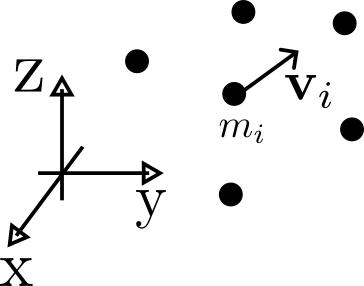
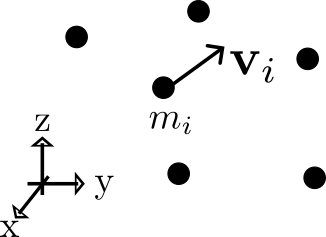
improve codes and links

diff --git a/papers/riku_sakamoto/main.md b/papers/riku_sakamoto/main.md
@@ -139,14 +139,14 @@ try:
     result = velocity + pressure
 except ValueError as e:
     print(f"Error: {e}")
-    # Output: Error: Incompatible dimensions for addition: L^1 T^-1 vs M^1 T^-2 L^-1
+    # Output: Error: Add operation for different physical dimensions is not allowed.
 
 ```
 
 #### Array Operations
 
 This section demonstrates how `PhlowerTensor` supports array operations while maintaining dimensional consistency.
-Stacking tensors with compatible dimensions is straightforward. For example, [](#-stacking_tensors_example) shows that multiple velocity tensors can be stacked along a new dimension.
+Stacking tensors with compatible dimensions is straightforward. For example, [](#stacking_tensors_example) shows that multiple velocity tensors can be stacked along a new dimension.
 The resulting tensor remains `PhlowerTensor` with appropriate physical dimension, even though the standard `torch.stack` is called.
 
 ```{code} python
@@ -162,8 +162,10 @@ velocity1 = phlower_tensor(torch.rand(10, 3), dimension={"L": 1, "T": -1})
 velocity2 = phlower_tensor(torch.rand(10, 3), dimension={"L": 1, "T": -1})
 
 # Stacking along a new dimension (e.g., time)
-stacked_velocity = torch.stack([velocity1, velocity2], dim=0), dimension={"L": 1, "T": -1}
-print(stacked_velocity)
+stacked_velocity = torch.stack([velocity1, velocity2])
+print(stacked_velocity.shape)
+# Output: torch.Size([2, 10, 3])
+print(stacked_velocity.dimension)
 # Output: PhlowerTensor with dimensions L^1 T^-1 and shape (2, 10, 3)
 
 ```
